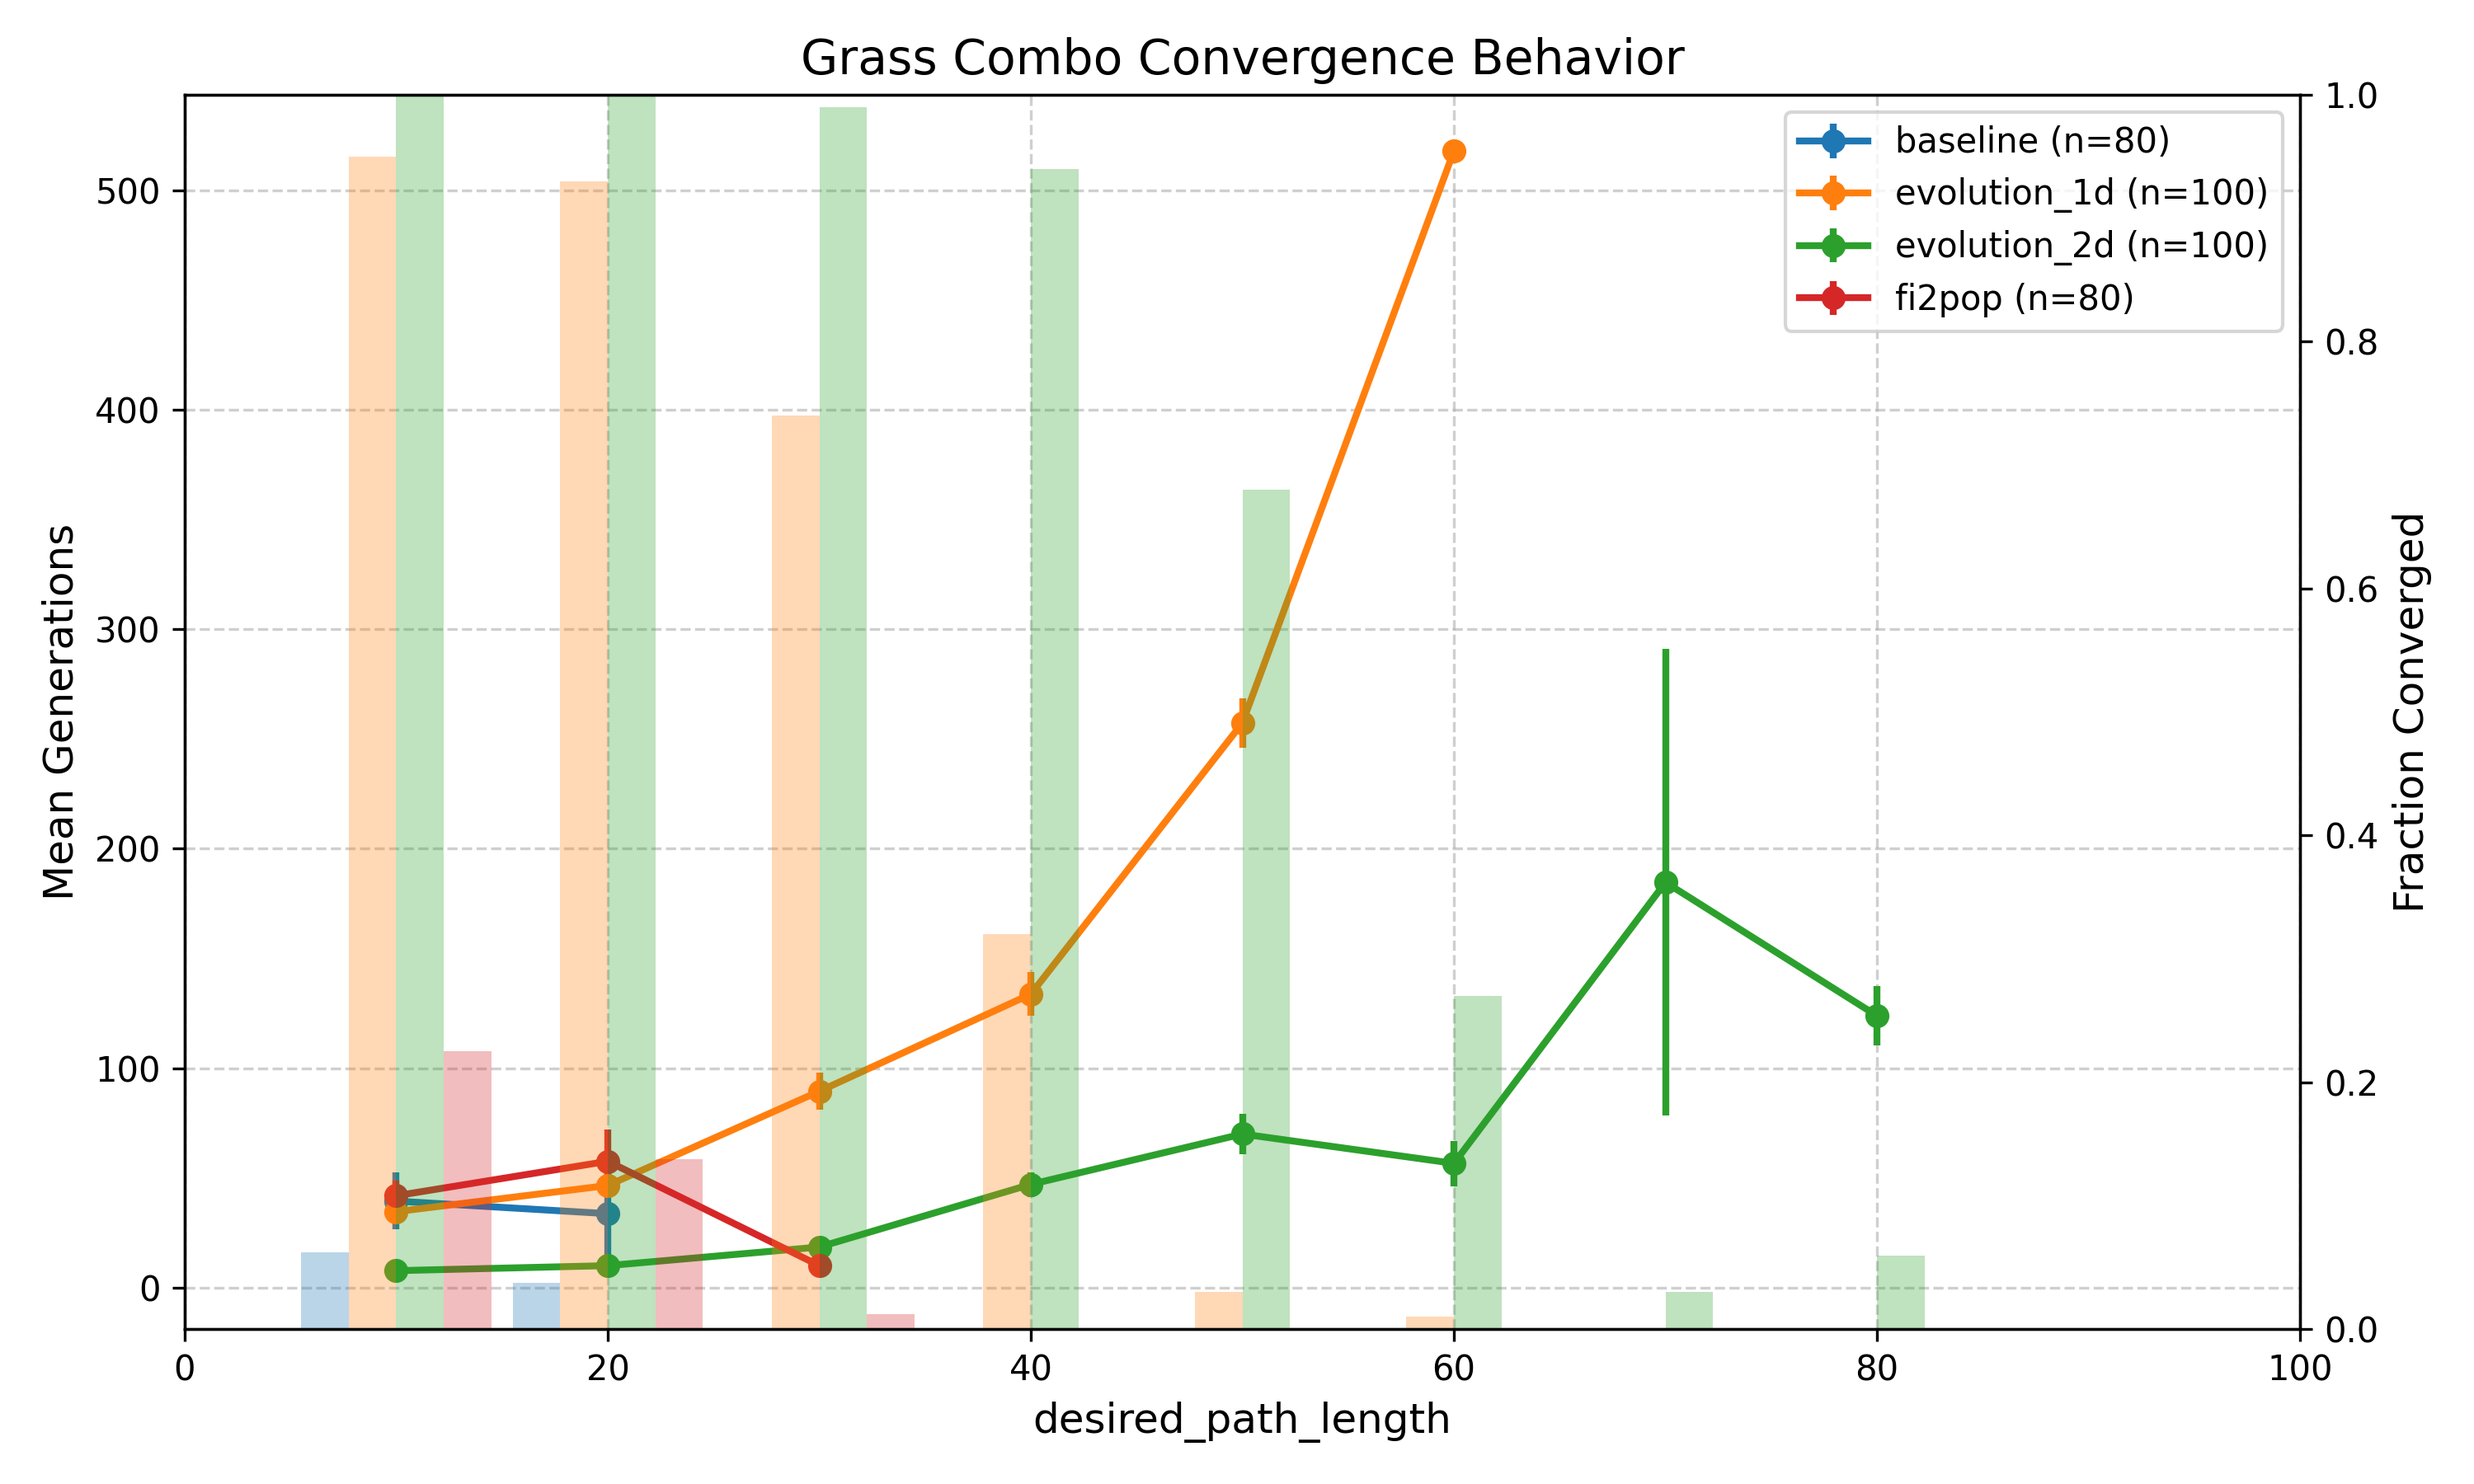
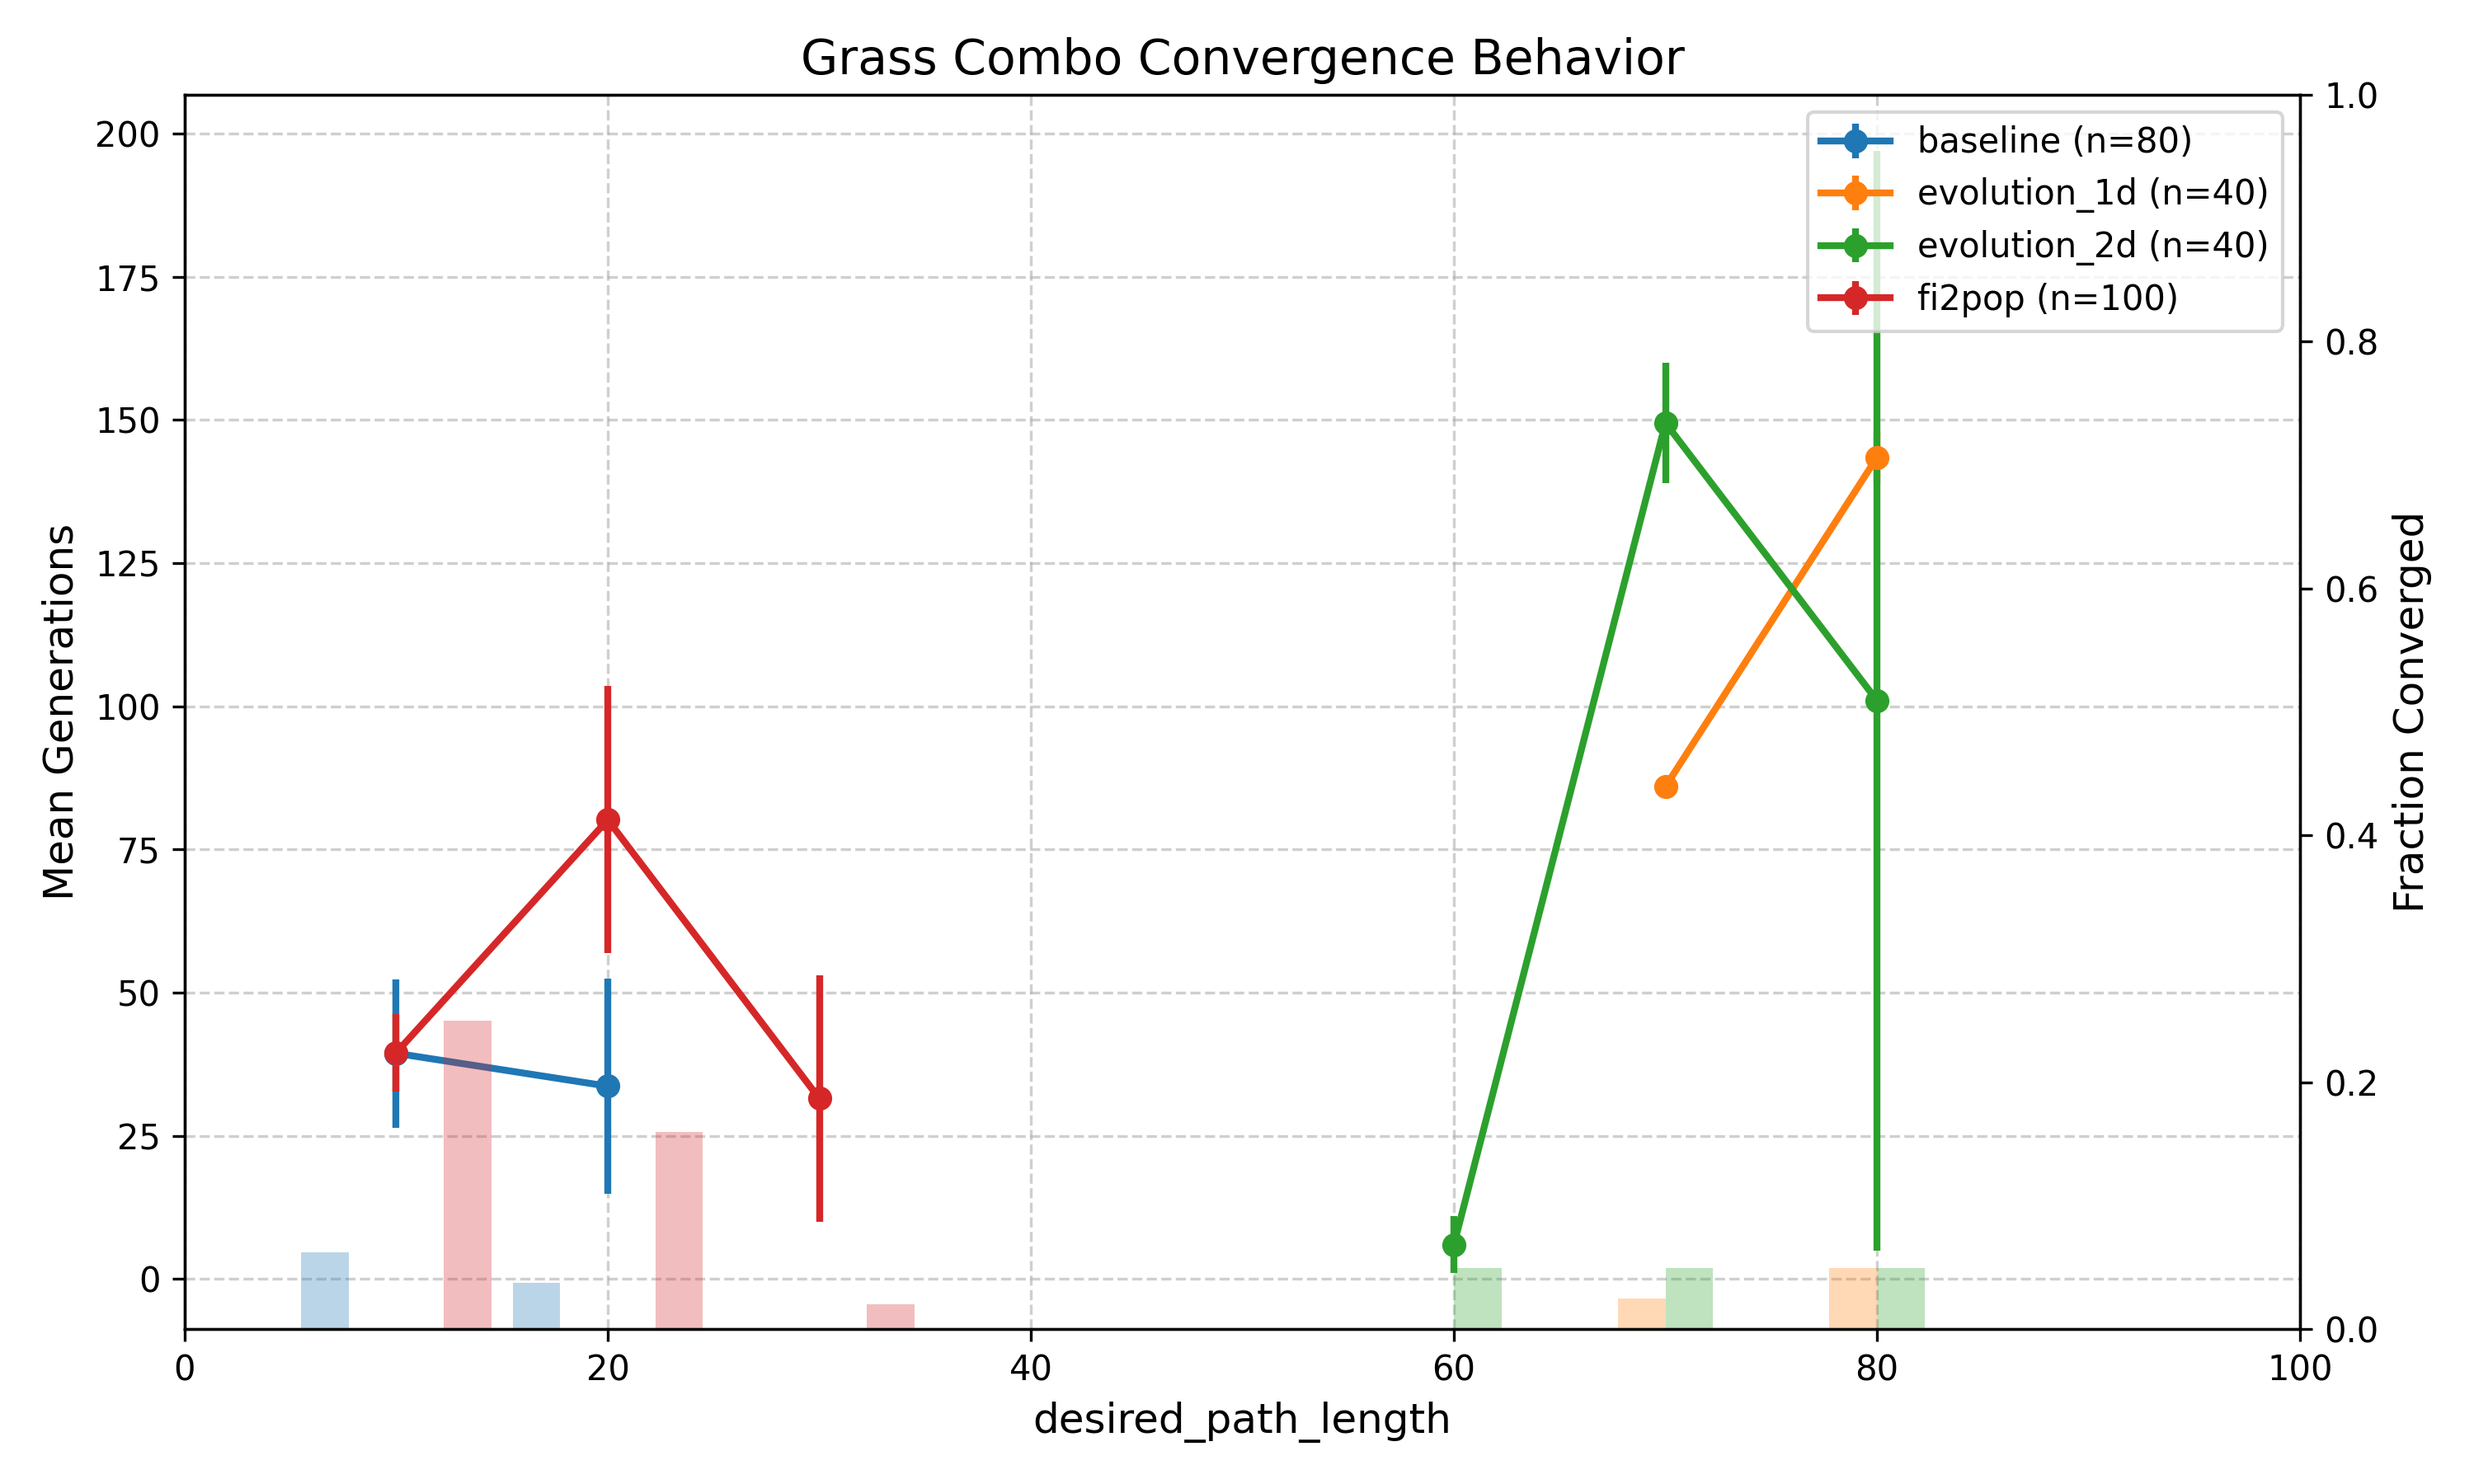
0_random_offspring

diff --git a/plot.py b/plot.py
@@ -955,7 +955,7 @@ if __name__ == "__main__":
         "--genotype-dimensions", type=int, choices=[1, 2], default=1
     )
     parser.add_argument("--debug", action="store_true", help="Save per-run debug plots")
-    parser.add_argument("--sample-size", type=int, default=20, help="Number of runs to collect per data point.")
+    parser.add_argument("--sample-size", type=int, default=40, help="Number of runs to collect per data point.")
     parser.add_argument("--mcts-iterations", type=int, default=1000, help="Number of MCTS iterations to run per session.")
     args = parser.parse_args()
 
